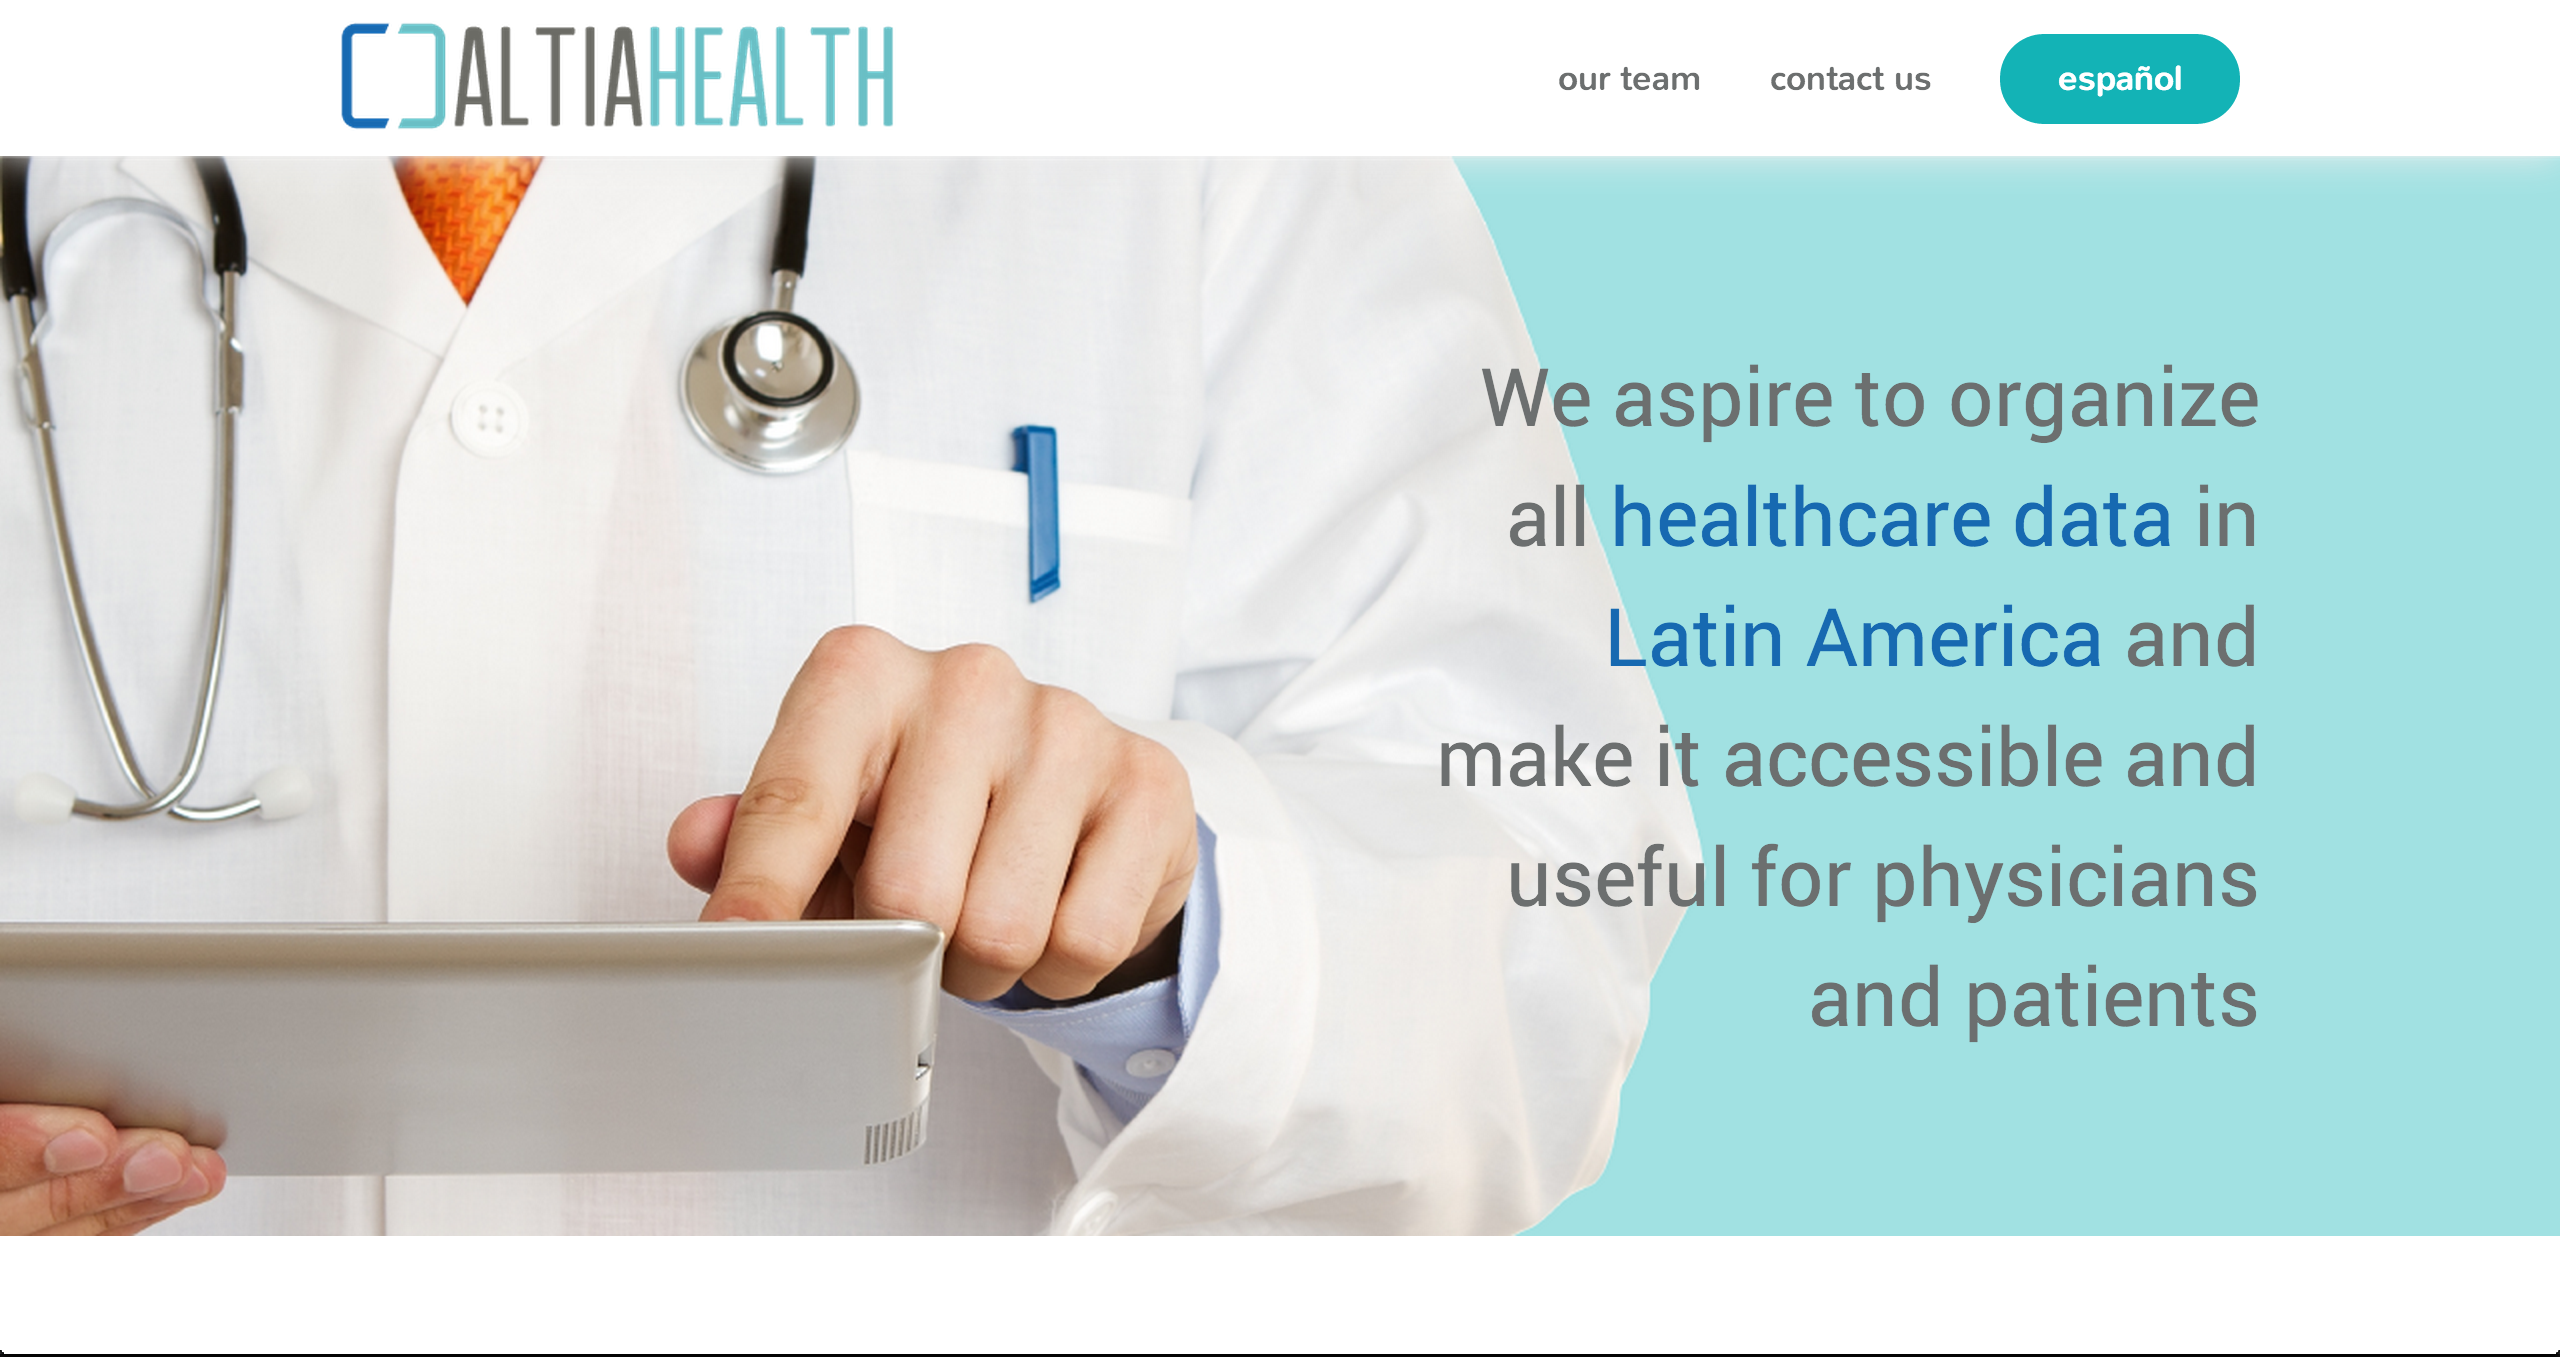
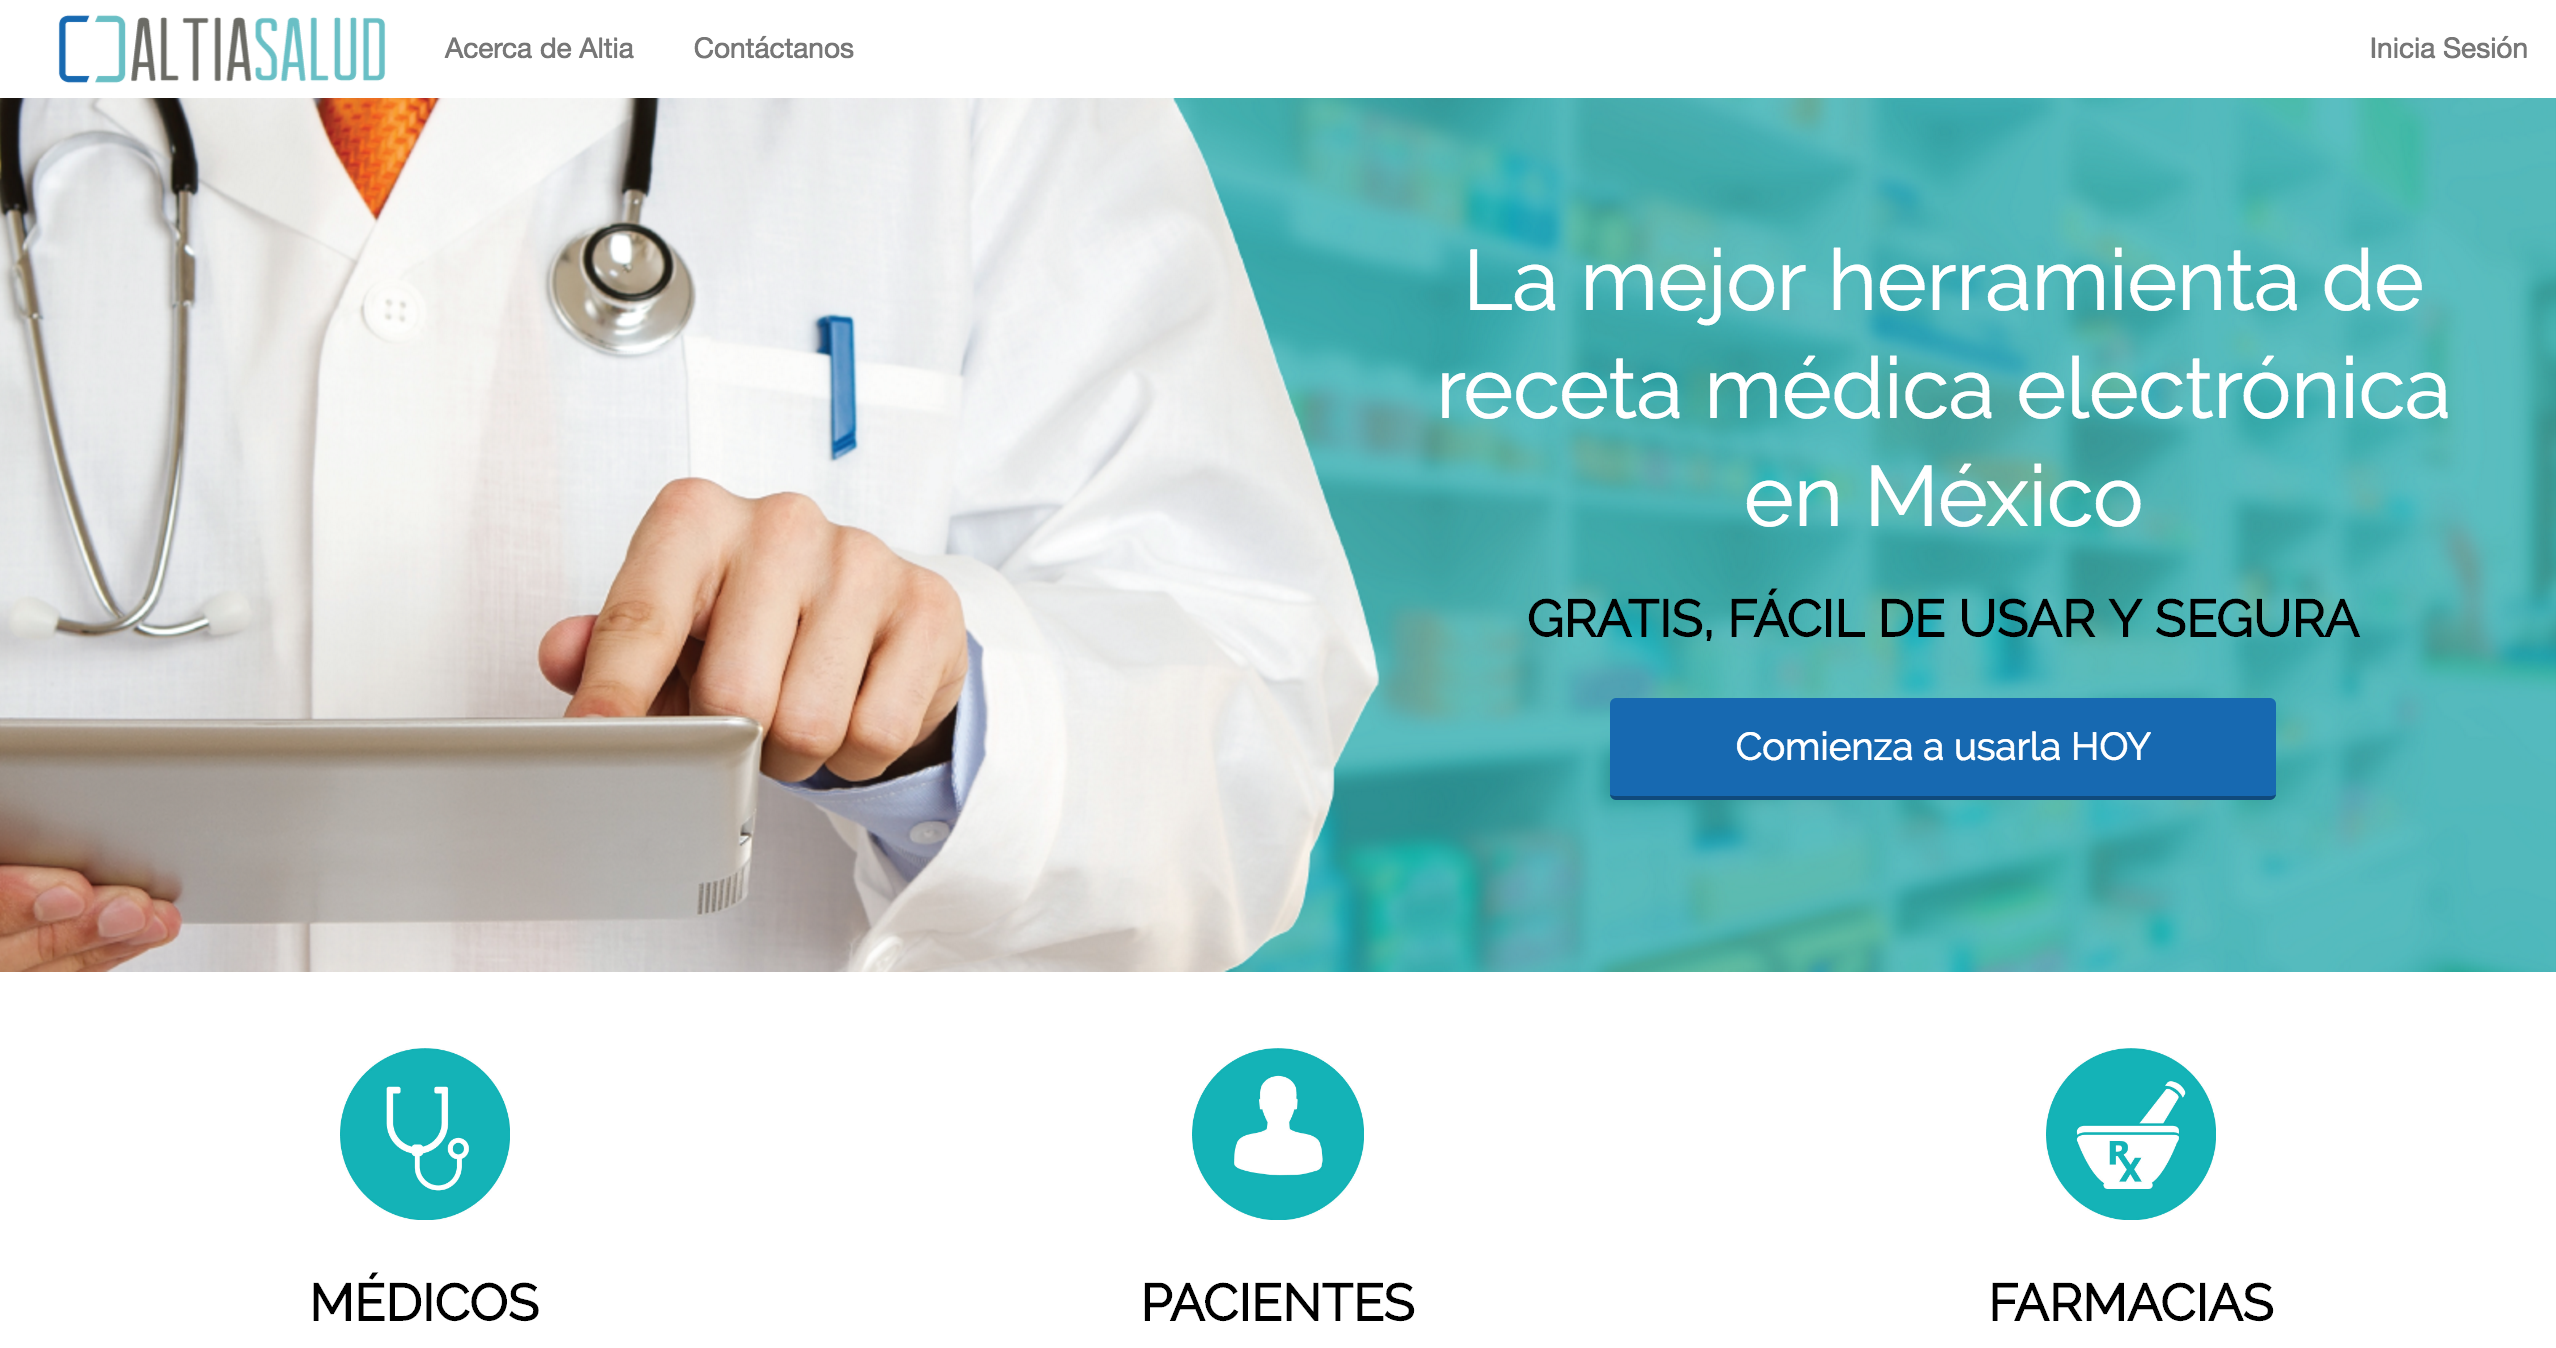
cambios para poner proyectos inactivos

diff --git a/index.html b/index.html
@@ -53,36 +53,37 @@
 <!-- PROJECT: ALTIAHEALTH -->
     <div class="project_container">
       <a href="http://altiasalud.com"><img class="screenshots grow1" src="img/altia.png" width="400"></a>
-      <h5>ALTIA HEALTH <span class="date">(Aug 2014) (Co-Founder)</span></h5>
+      <h5>ALTIA SALUD <span class="date">(Aug 2014) (Co-Founder)</span></h5>
       <p class="p1">
-        Altia Salud aspires to organize all healthcare data in Latin America and make it accessible and useful for physicians and patients. The app enables physicians to send accurate and understandable prescriptions directly to patients and pharmacies from the point of care.
-        <br><br><br>
+        Altia Salud is a cloud-based electronic prescription company in Mexico that is transforming the way in which physicians, patients and pharmacies access and share information.  The platform offers several tools like e-prescribing, patient record management and communication with all pharmacies connected to the network.
+        <br><br>
       </p>
       <p class="p1"><span>Technologies:</span> Ruby on rails, JavaScript, jQuery, AJAX, PostgreSQL, HTML5, CSS3.
       </p>
       <p class="p2">
         <i class="fa fa-external-link-square fa-lg"></i>&nbsp;&nbsp;
-        <a href="http://altiasalud.com">altiasalud.com
+        <a href="http://altiasalud.com">altiasalud.com (Closed on Jan 2016)
         </a>
       </p>
       <p class="p2">
         <i class="fa fa-github-square fa-lg"></i>&nbsp;&nbsp;
-        -
+        <a> Private repository.</a>
       </p>
     </div>
 
     <!-- PROJECT: ME-2-ME -->
     <div class="project_container">
-      <a href="http://www.me-2-me.com"><img class="screenshots grow1" src="img/me2me.png" width="400"></a>
+      <a href="https://github.com/gomezlavin/me2me"><img class="screenshots grow1" src="img/me2me.png" width="400"></a>
       <h5>ME-2-ME <span class="date">(Dec 2013) (Individual Project)</span></h5>
       <p class="p1">
         Me-2-Me is an app designed to help you keep track of your thoughts, goals and epiphanies by reminding you about them unexpectedly in the future. You can also write letters to your future self that will be only available on a specific date, as if they were placed inside a time capsule. Use Me-2-Me and start the dialogue with yourself!
+        <br><br>
       </p>
       <p class="p1"><span>Technologies:</span> Ruby on rails, JavaScript, jQuery, AJAX, PostgreSQL, HTML5, CSS3.
       </p>
       <p class="p2">
         <i class="fa fa-external-link-square fa-lg"></i>&nbsp;&nbsp;
-        <a href="http://www.me-2-me.com">me-2-me.com
+        <a href="https://github.com/gomezlavin/me2me">me-2-me.com (Closed on Sep 2015)
         </a>
       </p>
       <p class="p2">
@@ -94,7 +95,7 @@
 
     <!-- PROJECT: OOMERANG -->
     <div class="project_container">
-      <a href="http://www.oomerang.it"><img class="screenshots grow1"src="img/oomerang.png" width="400"></a>
+      <a href="https://github.com/gomezlavin/oomerang"><img class="screenshots grow1"src="img/oomerang.png" width="400"></a>
       <h5>OOMERANG <span class="date">(Nov 2013) (Group Project)</span></h5>
       <p class="p1">
         Oomerang is a geolocation-based lost & found app to help find and return lost things to their owners. By using specific locations on a map oomerang simplifies the process of connecting people that loose and find items. Lost it, found it, oomerang it!
@@ -104,7 +105,7 @@
       </p>
       <p class="p2">
         <i class="fa fa-external-link-square fa-lg"></i>&nbsp;&nbsp;
-        <a href="http://www.oomerang.it">oomerang.it
+        <a href="https://github.com/gomezlavin/oomerang">oomerang.it (Closed on Jan 2015)
         </a>
       </p>
       <p class="p2">
